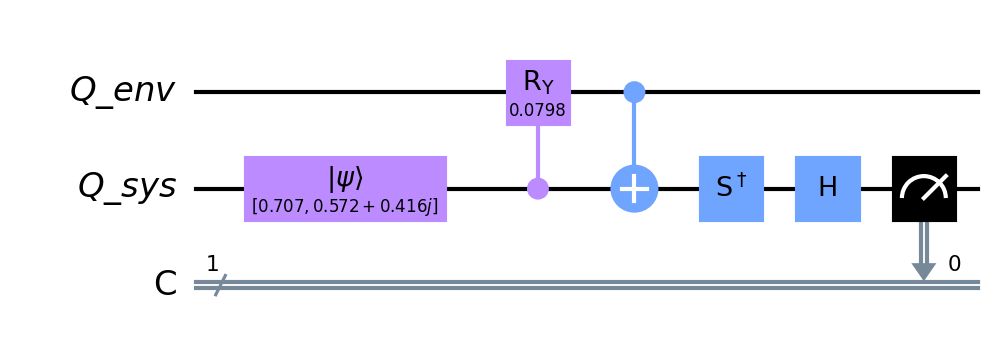
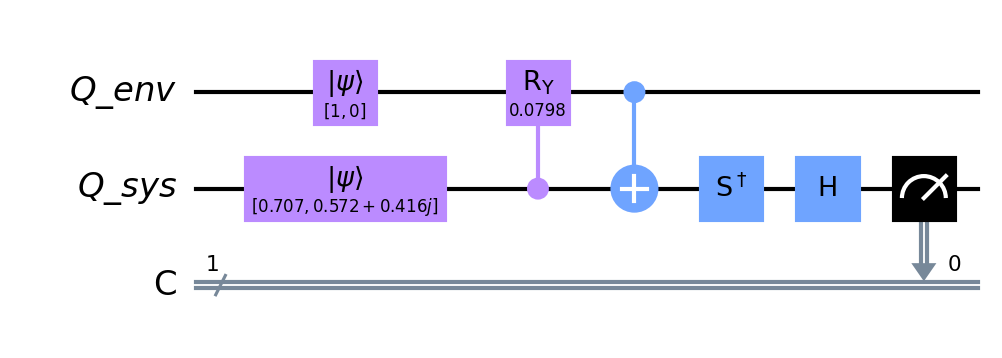
Fixed dynamical implementation of quantum circuit to get expectation value of each time-step

Changed region(s): [[0.3094, 0.1536, 0.4022, 0.3687]]

diff --git a/q_memristor/circuits/memristor_dynamic.py b/q_memristor/circuits/memristor_dynamic.py
@@ -39,6 +39,11 @@ if __name__ == '__main__':
     # simulator = IBMQSimulator(backend_string, shots)
     simulator = IBMQSimulator(backend_string, shots)
 
+    V = []
+    I = []
+
+    mem = memristor(y0, w, h, m, a, b)
+
     # REGISTERS OF THE CIRCUIT
     # Q_sys = memristor
     Q_env = QuantumRegister(len(t), 'Q_env')
@@ -55,6 +60,7 @@ if __name__ == '__main__':
 
     # EVOLUTION PROCESS
     x = 0
+    expectation_values = []
     for i in range(len(t) - 1):
         print('Time-step: ', t[i])
 
@@ -72,79 +78,79 @@ if __name__ == '__main__':
         all_qbits = Q_env[:] + Q_sys[:]
         circuit.append(evol_qc, all_qbits)
 
-    # MEASUREMENT PROCESS
+        # MEASUREMENT PROCESS
 
-    # The measurement over Pauli-Y provides the values of the matrices that should be plugged into the equation of
-    # the voltage and current.
-    circuit.sdg(Q_sys)
-    circuit.h(Q_sys)
+        # The measurement over Pauli-Y provides the values of the matrices that should be plugged into the equation of
+        # the voltage and current.
+        circuit.sdg(Q_sys)
+        circuit.h(Q_sys)
 
-    # first parameter = 1 = qbit on which the measurement takes place
-    # second parameter = 2 = classical bit to place the measurement result in
-    circuit.measure(Q_sys, C)
+        # first parameter = 1 = qbit on which the measurement takes place
+        # second parameter = 2 = classical bit to place the measurement result in
+        circuit.measure(Q_sys, C)
 
-    # UNCOMMENT TO DISPLAY CIRCUIT
-    # print(circuit.draw())
-    # print(circuit.decompose().draw())
+        # UNCOMMENT TO DISPLAY CIRCUIT
+        # print(circuit.draw())
+        # print(circuit.decompose().draw())
 
-    # Save image of final circuit
-    circuit.decompose().draw('mpl', filename='dynamic_circuit.png')
+        # Save image of final circuit
+        # circuit.decompose().draw('mpl', filename='dynamic_circuit.png')
 
-    # Execute the circuit using the simulator
-    counts, measurements = simulator.execute_circuit(circuit)
+        # Execute the circuit using the simulator
+        counts, measurements, exp_value = simulator.execute_circuit(circuit)
 
-    print('Simulator Measurement: ', counts)
-    # Example Simulator Measurement:  {'1': 16, '0': 1008}
-    # 1 --> obtained 16 times
-    # 0 --> obtained 1008 times
-    # print('Measurements', measurements)
+        print('Simulator Measurement: ', counts)
+        # Example Simulator Measurement:  {'1': 16, '0': 1008}
+        # 1 --> obtained 16 times
+        # 0 --> obtained 1008 times
+        # print('Measurements', measurements)
+        expectation_values.append(exp_value)
+        print('Expectation Value: ', exp_value)
+
+        V.append(-(1 / 2) * np.sqrt((m * h * w) / 2) * expectation_values[i])
+        I.append(mem.gamma(t[i]) * V[i])
+        print('Voltage at time ', t[i], ' : ', V[i])
+        print('Current at time ', t[i], ' : ', I[i])
+        print()
 
     # EXPECTATION VALUES
-    y_eigenvalues = {'0': 1, '1': -1}
+    # y_eigenvalues = {'0': 1, '1': -1}
     # pauli_y = np.array([[0, -1j], [1j, 0]])
-
+    #
     # Calculate the expectation value for each shot
-    expectation_values = []
-    expectation_value = 0
-    count_1 = 0
-    count_0 = 0
-    shot_count = 0
-    for measurement in measurements:
-        # Get the eigenvalue corresponding to the measurement outcome
-        eigenvalue = y_eigenvalues[measurement]
+    # expectation_values = []
+    # expectation_value = 0
+    # count_1 = 0
+    # count_0 = 0
+    # shot_count = 0
+    # for measurement in measurements:
+    #     # Get the eigenvalue corresponding to the measurement outcome
+    #     eigenvalue = y_eigenvalues[measurement]
+    #
+    #     shot_count = shot_count + 1
+    #
+    #     if int(measurement) == 1:
+    #         count_1 = count_1 + 1
+    #     else:
+    #         count_0 = count_0 + 1
+    #
+    #     # Calculate the expectation value for the shot
+    #     # expectation_value = expectation_value - (eigenvalue * int(measurement) * counts[measurement] / shots)
+    #     expectation_value = np.abs(count_0 - count_1) / shot_count
+    #     # print('Exp: ', expectation_value)
+    #     expectation_values.append(expectation_value)
 
-        shot_count = shot_count + 1
+    # print('Expectation Values: ', expectation_values)
 
-        if int(measurement) == 1:
-            count_1 = count_1 + 1
-        else:
-            count_0 = count_0 + 1
-
-        # Calculate the expectation value for the shot
-        # expectation_value = expectation_value - (eigenvalue * int(measurement) * counts[measurement] / shots)
-        expectation_value = np.abs(count_0 - count_1) / shot_count
-        # print('Exp: ', expectation_value)
-        expectation_values.append(expectation_value)
-
-    print('Expectation Values: ', expectation_values)
-
-    V = []
-    I = []
-    ts = 0
-
-    mem = memristor(y0, w, h, m, a, b)
-    iv_plot = IVplot()
-    t_plot = Tplot()
+    # iv_plot = IVplot()
+    # t_plot = Tplot()
 
     # VOLTAGE CALCULATION
     # Initial results:
     # V0 = -0.3535533905932738
     # I0 = -0.011401302470989517
-    for i in range(len(expectation_values)):
-        ts = ts + 0.00002
-        V.append(-(1 / 2) * np.sqrt((m * h * w) / 2) * expectation_values[i])
-        I.append(mem.gamma(ts) * V[i])
-        iv_plot.update(V[i], I[i])
-        t_plot.update(ts, V[i], I[i])
+    # for i in range(len(expectation_values)):
+        # iv_plot.update(V[i], I[i])
+        # t_plot.update(ts, V[i], I[i])
         # print('Voltage at time ', ts, ' : ', V[i])
         # print('Current at time ', ts, ' : ', I[i])

diff --git a/q_memristor/circuits/test_circuit.py b/q_memristor/circuits/test_circuit.py
@@ -1,0 +1,130 @@
+from qiskit import QuantumCircuit, QuantumRegister, ClassicalRegister
+import numpy as np
+from qiskit.circuit.library import RYGate
+from q_memristor.circuits.Simulator import IBMQSimulator
+from q_memristor.circuits.iv_plot_circuit import IVplot
+from q_memristor.numerical.num_memristor import memristor
+from q_memristor.plots.time_plot import Tplot
+
+"""
+    TEST 1
+    A new circuit is created where a new evolution step is added for each time step
+    
+    Results: 
+        - While the initial results seem to be in line with the one showed in the paper, 
+        the update does not behave according to the same behaviour shown in the paper 
+        (this might be due to the wrong value of the time?)
+"""
+
+if __name__ == '__main__':
+
+    a = np.pi / 4
+    b = np.pi / 5
+    y0 = 0.4
+    w = 1
+    m = 1
+    h = 1
+    backend_string = 'qasm_simulator'
+    shots = 50000
+
+    pure_state = [np.cos(a), np.sin(a) * np.exp(1j * b)]
+
+    mem = memristor(y0, w, h, m, a, b)
+    simulator = IBMQSimulator(backend_string, shots)
+
+    iv_plot = IVplot()
+    t_plot = Tplot()
+
+    eps = 0.1
+    tmax = 1.1
+    t = np.arange(0, tmax, eps)
+
+    V = []
+    I = []
+
+    n = 0
+    expectation_values = []
+    for i in range(len(t)):
+        print('Time-step: ', t[i])
+
+        n += 1
+
+        # Initialize registers
+        Q_env = QuantumRegister(n, 'Q_env')
+        Q_sys = QuantumRegister(1, 'Q_sys')
+        C = ClassicalRegister(1, 'C')
+
+        # Create a quantum circuit with two qubits
+        circuit = QuantumCircuit(Q_env, Q_sys, C)
+
+        # Apply gates to circuit
+
+        # INITIALIZATION
+        zero_state = [1] + [0] * (2 ** len(Q_env) - 1)
+
+        circuit.initialize(zero_state, Q_env)
+        circuit.initialize(pure_state, Q_sys)
+
+        # EVOLUTION
+        x = 0
+        for j in range(n):
+            if n == 1:
+                theta = np.arccos(np.exp(mem.k1(t[j])))
+            else:
+                theta = np.arccos(np.exp(simulator.k(t[j + 1], t[j])))
+            print('Theta ', x, ' : ', theta)
+
+            # Implementation of controlled RY gate
+            cry = RYGate(theta).control(1)
+
+            evol_qc = QuantumCircuit(Q_env, Q_sys, name='evolution')
+            # Apply cry gate to each timestep of the evolution
+            if n == 1:
+                circuit.append(cry, [Q_sys, Q_env])
+                circuit.cnot(Q_env, Q_sys)
+            else:
+                x += 1
+                evol_qc.append(cry, [Q_sys, Q_env[n - 1 - x]])
+                evol_qc.cnot(Q_env[n - 1 - x], Q_sys)
+
+            all_qbits = Q_env[:] + Q_sys[:]
+            circuit.append(evol_qc, all_qbits)
+
+        # MEASUREMENT
+        # Apply gates to perform measurement for Pauli-y
+        circuit.sdg(Q_sys)
+        circuit.h(Q_sys)
+
+        # first parameter = 1 = qbit on which the measurement takes place
+        # second parameter = 2 = classical bit to place the measurement result in
+        circuit.measure(Q_sys, C)
+
+        # print(circuit.draw())
+        # print(circuit.decompose().draw())
+
+        # Save image of final circuit
+        # circuit.draw('mpl', filename='1t_circuit.png')
+
+        counts, measurements, exp_value = simulator.execute_circuit(circuit)
+
+        print('Simulator Counts: ', counts)
+        # print('Simulator Measurements: ', measurements)
+        print('Simulator Expectation Value: ', exp_value)
+
+        # Results for initial values at t = 0
+        #
+        # Simulator Expectation Value:  0.5888
+        # Voltage:  -0.2081722363813196
+        # Current:  -0.013426173789837254
+        v_val = -(1 / 2) * np.sqrt((m * h * w) / 2) * exp_value
+        i_val = mem.gamma(t[i]) * v_val
+
+        iv_plot.update(v_val, i_val)
+        t_plot.update(t[i], v_val, i_val)
+
+        V.append(v_val)
+        I.append(i_val)
+
+        print('Voltage: ', v_val)
+        print('Current: ', i_val)
+        print()

diff --git a/q_memristor/circuits/memristor_1t.py b/q_memristor/circuits/memristor_1t.py
@@ -24,6 +24,7 @@ if __name__ == '__main__':
     h = 1
 
     pure_state = [np.cos(a), np.sin(a) * np.exp(1j * b)]
+    zero_state = [1, 0]
 
     mem = memristor(y0, w, h, m, a, b)
 
@@ -48,6 +49,7 @@ if __name__ == '__main__':
     # Apply gates to circuit
 
     # INITIALIZATION
+    circuit.initialize(zero_state, Q_env)
     circuit.initialize(pure_state, Q_sys)
 
     # EVOLUTION
@@ -63,7 +65,7 @@ if __name__ == '__main__':
     # second parameter = 2 = classical bit to place the measurement result in
     circuit.measure(Q_sys, C)
 
-    print(circuit.draw())
+    # print(circuit.draw())
     print(circuit.decompose().draw())
 
     # Save image of final circuit

diff --git a/q_memristor/numerical/main.py b/q_memristor/numerical/main.py
@@ -11,7 +11,7 @@ def f(v0, gamma0, ts):
 if __name__ == '__main__':
     # Time-steps
     eps = 0.1
-    tmax = 50.1
+    tmax = 100.1
     t = np.arange(0, tmax, eps)
 
     # Simulation parameters
